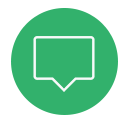
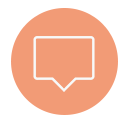
theme: final edition

diff --git a/kawa.js b/kawa.js
@@ -1,12 +1,13 @@
 const theme_default = {
   Image: '/res/default',
-  MainColor: '#1890ff',
-  TabSelectedColor: '#606060',
+  MainColor: '#A7B1B3',
+  FavorColor: '#ff325A',
+  TabSelectedColor: '#333',
 }
 
 const theme_blue = {
   Image: '/res/blue',
-  MainColor: '#1890ff',
+  MainColor: '#1890FF',
 }
 
 const theme_cyan = {
@@ -16,5 +17,5 @@ const theme_cyan = {
 
 module.exports = {
   AppKey: "J3PDS76SH6JASQHX2QAY5VQ3QINXIYLEMVIREFADB7Z2BHCWC3VA====",
-  Theme: theme_blue,
+  Theme: theme_default,
 }

diff --git a/pages/home/home.js b/pages/home/home.js
@@ -23,6 +23,8 @@ Page({
   data: {
     theme: kawa.Theme.Image,
     color: kawa.Theme.MainColor,
+    tabColor: kawa.Theme.TabSelectedColor || kawa.Theme.MainColor,
+    favroColor: kawa.Theme.FavorColor || kawa.Theme.MainColor,
     speaker: {
       title: "",
       link: "",

diff --git a/pages/thread/thread.js b/pages/thread/thread.js
@@ -9,6 +9,7 @@ Page({
    */
   data: {
     theme: kawa.Theme.Image,
+    favorColor: kawa.Theme.FavorColor || kawa.Theme.MainColor,
     item: {
       idx: null,
       post: {},
